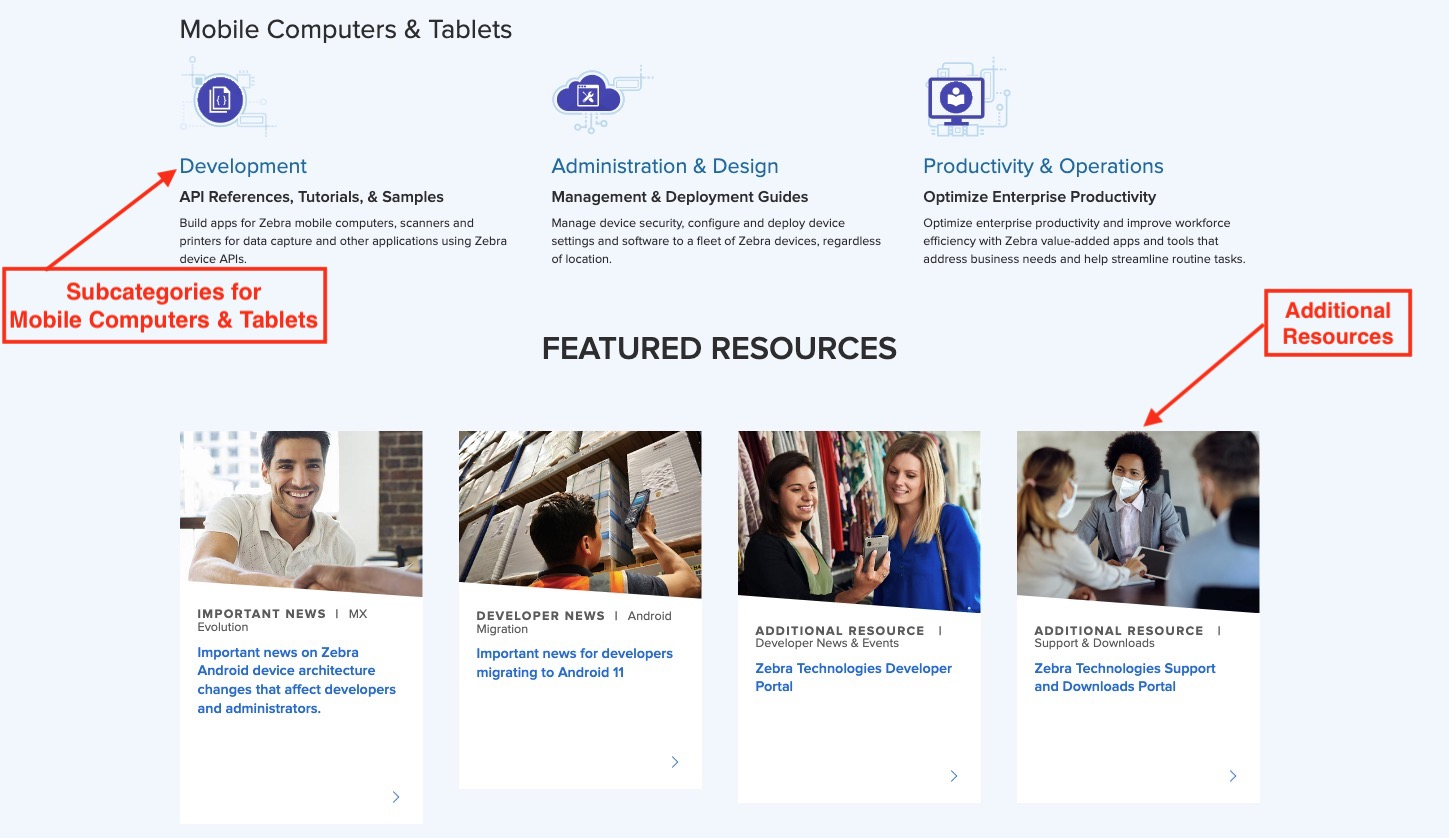
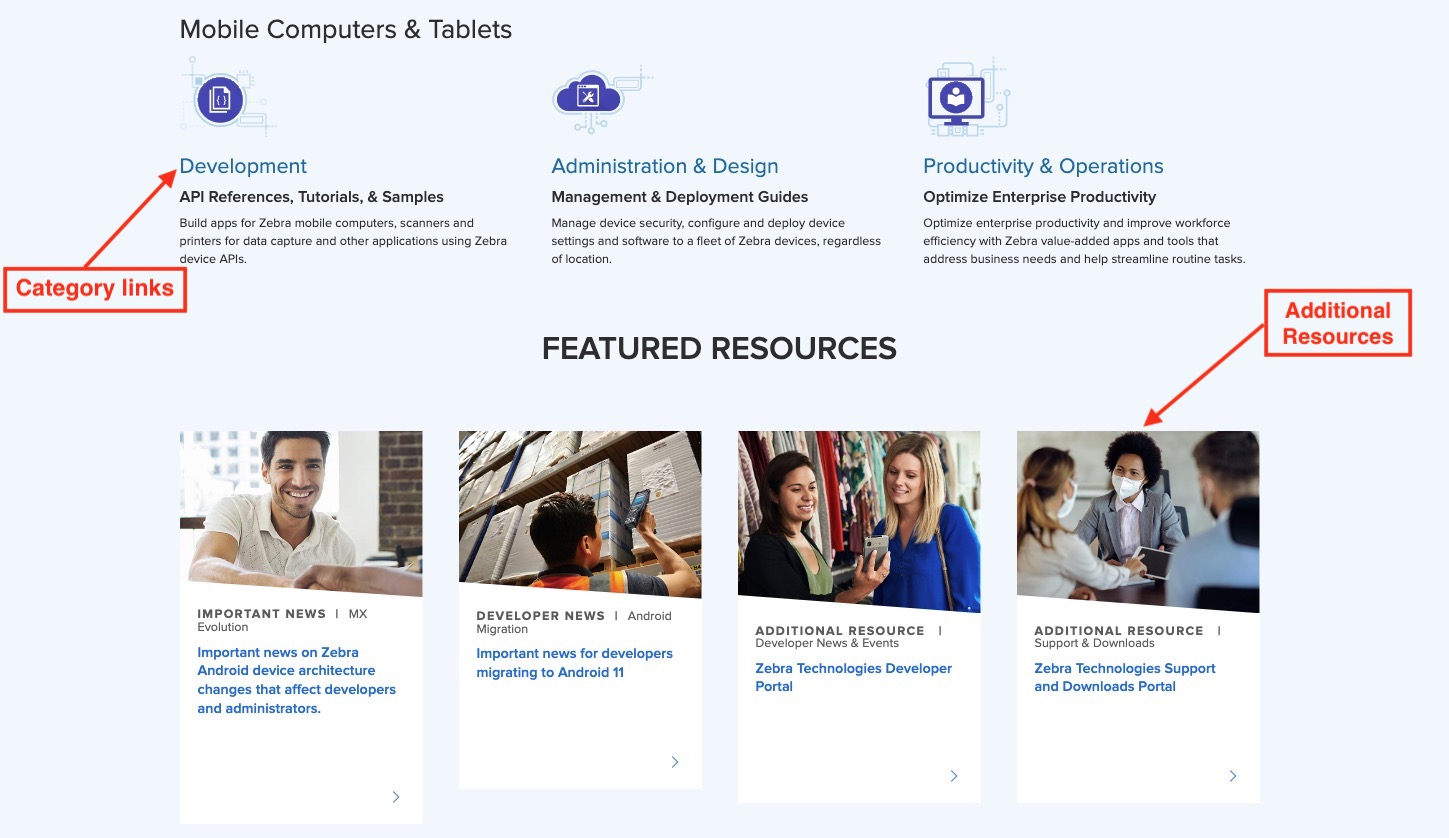
[TUT-76691] Update 'About TechDocs' based on site refresh

Changed region(s): [[0.0, 0.2482, 0.2484, 0.4344], [0.0932, 0.1862, 0.1242, 0.2482]]

diff --git a/about/index.html b/about/index.html
@@ -249,7 +249,7 @@
 
 <p></p><h3 id="homepage" class="anchor"><a class="heading-anchor" href="#homepage"><span></span></a>Home Page</h3>
 
-<b>Below is the main TechDocs page</b>, reachable at <a href="/">techdocs.zebra.com</a> or by clicking the Zebra icon from within any product. The top global menu provides quick access to each section of a product and other resources. The documents for individual products are accessible from the product family, category or subcategory links.
+<b>Below is the main TechDocs page</b>, reachable at <a href="/">techdocs.zebra.com</a> or by clicking the Zebra icon from within any product. The top global menu provides quick access to each section of a product and other resources. Additionally, the documents for individual products are accessible from the product family or category links.
 <!--Each product has its own "tile" with the product name linking to the "About" page and buttons to the product's main sections. When multiple versions of a product are documented, a drop-down list on the right side of the tile (shown) links to docs for each of the available versions. -->
 
 <!--
@@ -268,9 +268,9 @@
 
 <h3 id="categorypages" class="anchor"><a class="heading-anchor" href="#categorypages"><span></span></a>Category Pages</h3>
 
-<p>Category and product family pages display the tiles for each product. They are accessible from the top global menu or the category links located below the carousel. Each product has its own "tile" with the product name linking to the "About" page of the latest version and dropdown selections for the product version and document section. If only one version of a product is documented, only the document dropdown selection is available.</p>
+<p><b>Category and product family pages display the tiles for each product.</b> The category pages are accessible from the top global menu as well as below the carousel. Each product has its own "tile" with the product name linking to the "About" page of the latest product version. Drop-down selections for the product version and document section allow for the selected document to be opened directly. If only one version of a product is available, only the document section drop-down is visible.</p>
 
-<img style="height:550px" src="category_page.jpg">
+<img style="height:630px" src="category_page.jpg">
 <i>Click on image to enlarge</i>
 <br>
 <!-- -->
@@ -328,12 +328,12 @@
 <td>Active Edge</td>
 <td>https://techdocs.zebra.com/activeedge</td>
 </tr>
-
+<!-- 
 <tr>
 <td>Cart Scan</td>
 <td>https://techdocs.zebra.com/cartscan</td>
 </tr>
-
+-->
 <tr>
 <td>DataWedge</td>
 <td>https://techdocs.zebra.com/datawedge</td>
@@ -442,7 +442,7 @@
 
 <tr>
 <td>Zebra Data Service</td>
-<td>https://techdocs.zebra.com//zds</td>
+<td>https://techdocs.zebra.com/zds</td>
 </tr>
 
 <tr>
@@ -465,7 +465,7 @@
 
 <p>For Zebra’s Mobility DNA documentation (MX and OSX), SmartDocs allows a user to enter the MX, OSX and/or Android version(s) currently running on a device and see a list of the features and capabilities available on that device, helping to reduce development and troubleshooting time and eliminate guesswork. </p>
 
-<p><img style="height:380px" src="smart_docs.png">
+<p><img style="height:450px" src="smart_docs.png">
 <em>Shows that a device with OSX 4.1 cannot perform Enterprise or Factory Resets or a Full-Device Wipe</em>. 
 <br></p>
 
@@ -486,8 +486,8 @@
 
 <p><strong>TechDocs integrates with Google Search</strong> to deliver results ranked by relevance, enabling users to find the required information as quickly as possible. A search conducted from the TechDocs home page returns results based on the whole TechDocs site.  A search conducted from a product page returns results based on the particular product.</p>
 
-<p><img style="height:550px" src="google_results.png">
-<em>Results of a search for "Barcode" from within DataWedge 6.3 docs</em> 
+<p><img style="height:600px" src="google_results.jpg">
+<em>Results of a search for "Barcode" from within DataWedge 13.0 docs</em> 
 <br></p>
 
 <!-- -->
